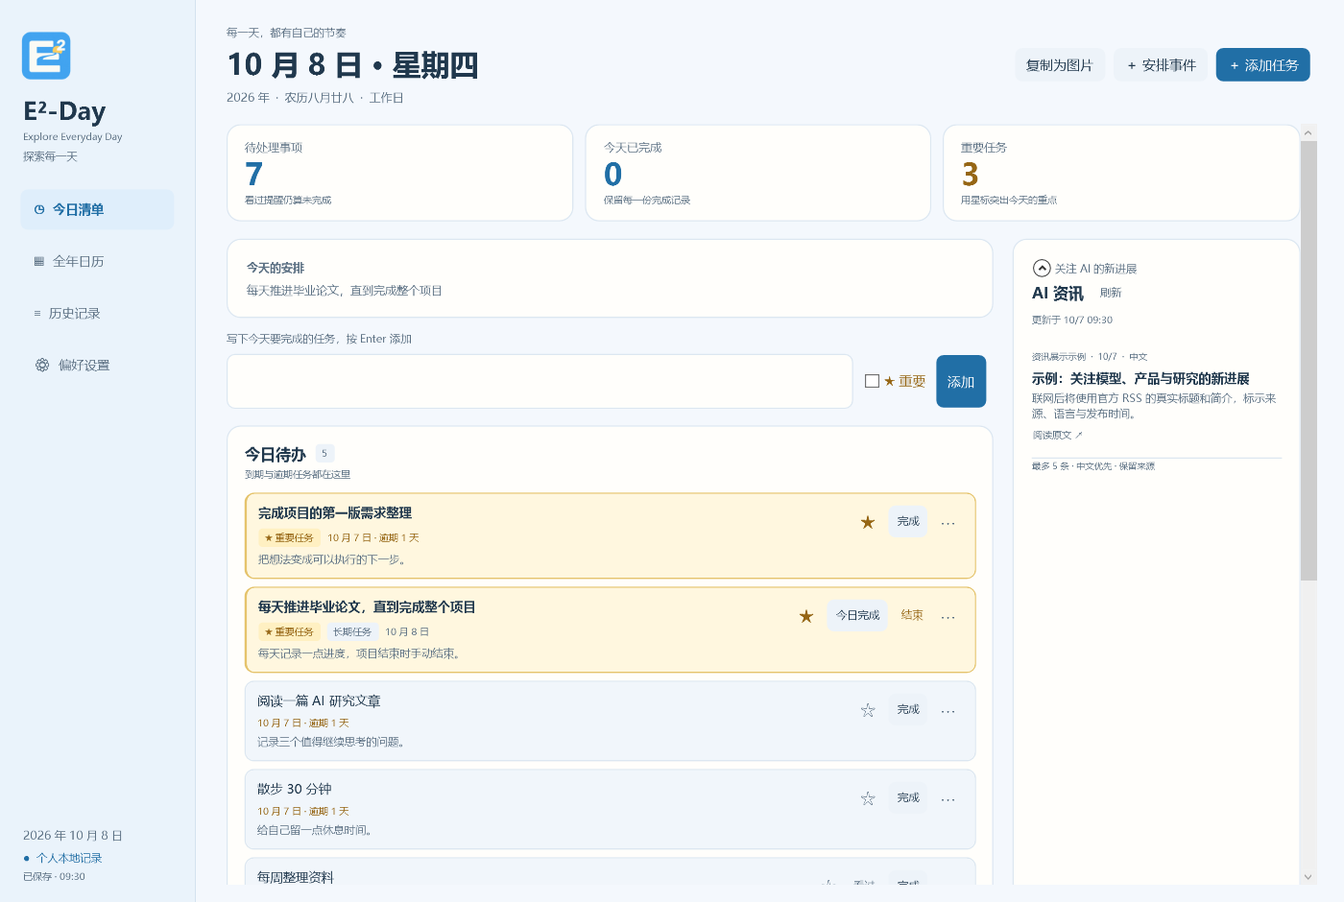
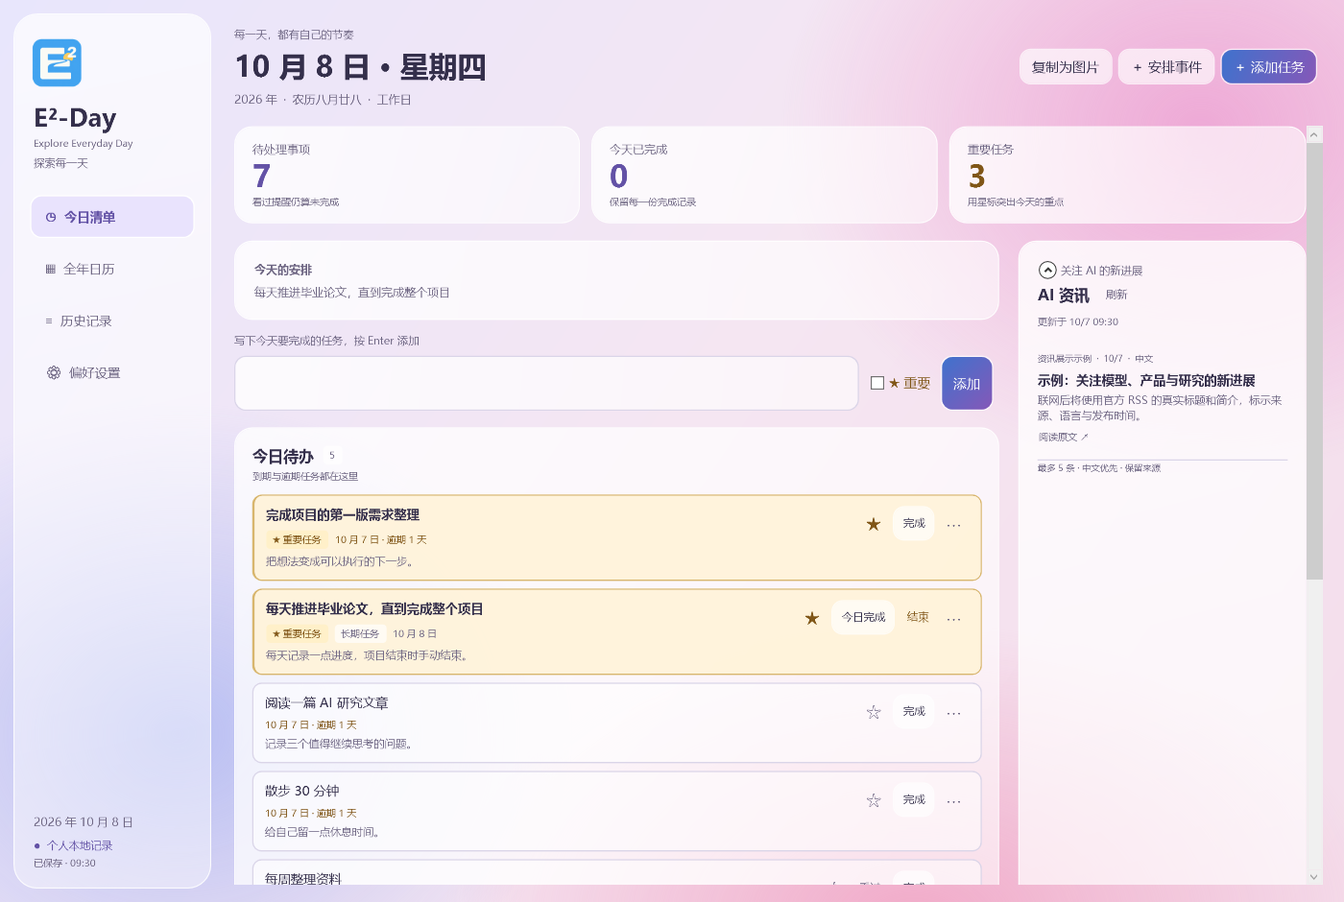
Publish E2-Day 2.1.1 with pastel glass desktop theme and refreshed example screenshots

diff --git a/src/DailyRecord.App/App.xaml b/src/DailyRecord.App/App.xaml
@@ -3,24 +3,45 @@
              xmlns:x="http://schemas.microsoft.com/winfx/2006/xaml"
              ShutdownMode="OnMainWindowClose">
   <Application.Resources>
-    <!-- Sky blue, ivory and sunrise gold follow the E²-Day logo. -->
-    <SolidColorBrush x:Key="InkBrush" Color="#20384D" />
-    <SolidColorBrush x:Key="MutedBrush" Color="#5C7184" />
-    <SolidColorBrush x:Key="AccentBrush" Color="#216FA6" />
-    <SolidColorBrush x:Key="LineBrush" Color="#DCE7F1" />
-    <SolidColorBrush x:Key="PageBrush" Color="#F4F8FD" />
-    <SolidColorBrush x:Key="SidebarBrush" Color="#EAF3FB" />
-    <SolidColorBrush x:Key="SidebarLineBrush" Color="#D3E2EF" />
-    <SolidColorBrush x:Key="SurfaceBrush" Color="#FFFEFB" />
-    <SolidColorBrush x:Key="SubtleSurfaceBrush" Color="#F1F6FB" />
-    <SolidColorBrush x:Key="NeutralFillBrush" Color="#EDF3F9" />
-    <SolidColorBrush x:Key="SelectedBrush" Color="#DFEEFB" />
-    <SolidColorBrush x:Key="OnAccentMutedBrush" Color="#EAF5FF" />
-    <SolidColorBrush x:Key="BlankDayBrush" Color="#F4F7FB" />
-    <SolidColorBrush x:Key="ImportantTextBrush" Color="#966614" />
-    <SolidColorBrush x:Key="ImportantFillBrush" Color="#FFF7DF" />
-    <SolidColorBrush x:Key="ImportantBadgeBrush" Color="#FFF0C2" />
-    <SolidColorBrush x:Key="ImportantLineBrush" Color="#E5C36B" />
+    <!-- Opaque pastel foundation, translucent glass surfaces and readable violet ink. -->
+    <SolidColorBrush x:Key="InkBrush" Color="#342F4B" />
+    <SolidColorBrush x:Key="MutedBrush" Color="#6E6683" />
+    <SolidColorBrush x:Key="AccentBrush" Color="#6352A6" />
+    <SolidColorBrush x:Key="LineBrush" Color="#DAD5E8" />
+    <LinearGradientBrush x:Key="PageBrush" StartPoint="0,0" EndPoint="1,1">
+      <GradientStop Color="#E8E6FC" Offset="0" />
+      <GradientStop Color="#F5E6F2" Offset="0.5" />
+      <GradientStop Color="#F4DDEB" Offset="1" />
+    </LinearGradientBrush>
+    <LinearGradientBrush x:Key="ActionBrush" StartPoint="0,0" EndPoint="1,1">
+      <GradientStop Color="#3F72CD" Offset="0" />
+      <GradientStop Color="#8558B8" Offset="1" />
+    </LinearGradientBrush>
+    <LinearGradientBrush x:Key="SidebarBrush" StartPoint="0,0" EndPoint="1,1">
+      <GradientStop Color="#BBFFFFFF" Offset="0" />
+      <GradientStop Color="#65FFFFFF" Offset="1" />
+    </LinearGradientBrush>
+    <SolidColorBrush x:Key="SidebarLineBrush" Color="#E6FFFFFF" />
+    <LinearGradientBrush x:Key="SurfaceBrush" StartPoint="0,0" EndPoint="1,1">
+      <GradientStop Color="#CFFFFFFF" Offset="0" />
+      <GradientStop Color="#91FFFFFF" Offset="1" />
+    </LinearGradientBrush>
+    <SolidColorBrush x:Key="SubtleSurfaceBrush" Color="#88FFFFFF" />
+    <SolidColorBrush x:Key="NeutralFillBrush" Color="#A6FFFFFF" />
+    <SolidColorBrush x:Key="SelectedBrush" Color="#DBE6DFFD" />
+    <SolidColorBrush x:Key="OnAccentMutedBrush" Color="#F2EDFF" />
+    <SolidColorBrush x:Key="BlankDayBrush" Color="#32FFFFFF" />
+    <SolidColorBrush x:Key="ImportantTextBrush" Color="#805617" />
+    <SolidColorBrush x:Key="ImportantFillBrush" Color="#E8FFF3D9" />
+    <SolidColorBrush x:Key="ImportantBadgeBrush" Color="#FFF0C9" />
+    <SolidColorBrush x:Key="ImportantLineBrush" Color="#D8B66D" />
+    <!-- Only the daily edition defines this style; the shared helper leaves Teacher unchanged. -->
+    <Style x:Key="GlassCard" TargetType="Border">
+      <Setter Property="BorderBrush" Value="#F0FFFFFF" />
+      <Setter Property="Effect">
+        <Setter.Value><DropShadowEffect Color="#6B528E" BlurRadius="16" ShadowDepth="3" Opacity="0.075" /></Setter.Value>
+      </Setter>
+    </Style>
     <Style TargetType="Window">
       <Setter Property="Icon" Value="pack://siteoforigin:,,,/e2-day.ico" />
       <Setter Property="FontFamily" Value="Microsoft YaHei UI, Segoe UI" />
@@ -41,7 +62,7 @@
       <Setter Property="Template">
         <Setter.Value>
           <ControlTemplate TargetType="TextBox">
-            <Border x:Name="Bd" CornerRadius="8" Background="{TemplateBinding Background}"
+            <Border x:Name="Bd" CornerRadius="11" Background="{TemplateBinding Background}"
                     BorderBrush="{TemplateBinding BorderBrush}" BorderThickness="{TemplateBinding BorderThickness}">
               <ScrollViewer x:Name="PART_ContentHost" Margin="{TemplateBinding Padding}" />
             </Border>
@@ -59,7 +80,7 @@
       <Setter Property="Padding" Value="12,8" />
       <Setter Property="Background" Value="{StaticResource NeutralFillBrush}" />
       <Setter Property="Foreground" Value="{StaticResource InkBrush}" />
-      <Setter Property="BorderBrush" Value="Transparent" />
+      <Setter Property="BorderBrush" Value="#BBFFFFFF" />
       <Setter Property="BorderThickness" Value="1" />
       <Setter Property="Cursor" Value="Hand" />
       <Setter Property="VerticalContentAlignment" Value="Center" />
@@ -67,14 +88,14 @@
       <Setter Property="Template">
         <Setter.Value>
           <ControlTemplate TargetType="Button">
-            <Border x:Name="Bd" CornerRadius="8" Background="{TemplateBinding Background}"
+            <Border x:Name="Bd" CornerRadius="11" Background="{TemplateBinding Background}"
                     BorderBrush="{TemplateBinding BorderBrush}" BorderThickness="{TemplateBinding BorderThickness}">
               <ContentPresenter Margin="{TemplateBinding Padding}" HorizontalAlignment="{TemplateBinding HorizontalContentAlignment}"
                                 VerticalAlignment="{TemplateBinding VerticalContentAlignment}" />
             </Border>
             <ControlTemplate.Triggers>
-              <Trigger Property="IsMouseOver" Value="True"><Setter TargetName="Bd" Property="Opacity" Value="0.8" /></Trigger>
-              <Trigger Property="IsPressed" Value="True"><Setter TargetName="Bd" Property="Opacity" Value="0.6" /></Trigger>
+              <Trigger Property="IsMouseOver" Value="True"><Setter TargetName="Bd" Property="Opacity" Value="0.86" /><Setter TargetName="Bd" Property="BorderBrush" Value="{StaticResource AccentBrush}" /></Trigger>
+              <Trigger Property="IsPressed" Value="True"><Setter TargetName="Bd" Property="Opacity" Value="0.7" /></Trigger>
               <Trigger Property="IsKeyboardFocused" Value="True"><Setter TargetName="Bd" Property="BorderBrush" Value="{StaticResource AccentBrush}" /></Trigger>
               <Trigger Property="IsEnabled" Value="False"><Setter Property="Opacity" Value="0.45" /></Trigger>
             </ControlTemplate.Triggers>
@@ -83,13 +104,14 @@
       </Setter>
     </Style>
     <Style x:Key="AccentButton" TargetType="Button" BasedOn="{StaticResource {x:Type Button}}">
-      <Setter Property="Background" Value="{StaticResource AccentBrush}" />
+      <Setter Property="Background" Value="{StaticResource ActionBrush}" />
       <Setter Property="Foreground" Value="White" />
     </Style>
     <Style x:Key="QuietButton" TargetType="Button" BasedOn="{StaticResource {x:Type Button}}">
       <Setter Property="Background" Value="Transparent" />
       <Setter Property="Padding" Value="8,6" />
       <Setter Property="Foreground" Value="{StaticResource MutedBrush}" />
+      <Setter Property="BorderBrush" Value="Transparent" />
     </Style>
     <Style TargetType="ComboBox">
       <Setter Property="Padding" Value="8,7" />
@@ -97,6 +119,69 @@
       <Setter Property="Background" Value="{StaticResource SurfaceBrush}" />
       <Setter Property="Foreground" Value="{StaticResource InkBrush}" />
       <Setter Property="BorderBrush" Value="{StaticResource LineBrush}" />
+      <Setter Property="BorderThickness" Value="1" />
+      <Setter Property="ScrollViewer.CanContentScroll" Value="True" />
+      <Setter Property="Template">
+        <Setter.Value>
+          <ControlTemplate TargetType="ComboBox">
+            <Grid>
+              <ToggleButton Focusable="False" ClickMode="Press"
+                            IsChecked="{Binding IsDropDownOpen, RelativeSource={RelativeSource TemplatedParent}, Mode=TwoWay}">
+                <ToggleButton.Template>
+                  <ControlTemplate TargetType="ToggleButton">
+                    <Border Background="Transparent" />
+                  </ControlTemplate>
+                </ToggleButton.Template>
+              </ToggleButton>
+              <Border x:Name="Bd" CornerRadius="11" IsHitTestVisible="False"
+                      Background="{TemplateBinding Background}" BorderBrush="{TemplateBinding BorderBrush}"
+                      BorderThickness="{TemplateBinding BorderThickness}">
+                <Grid>
+                  <ContentPresenter Margin="12,8,32,8" VerticalAlignment="Center"
+                                    Content="{TemplateBinding SelectionBoxItem}"
+                                    ContentTemplate="{TemplateBinding SelectionBoxItemTemplate}" />
+                  <Path Data="M 0 0 L 4 4 L 8 0" Stroke="{StaticResource MutedBrush}" StrokeThickness="1.4"
+                        HorizontalAlignment="Right" VerticalAlignment="Center" Margin="0,0,14,0" />
+                </Grid>
+              </Border>
+              <Popup x:Name="PART_Popup" Placement="Bottom" AllowsTransparency="True" Focusable="False"
+                     IsOpen="{TemplateBinding IsDropDownOpen}" PopupAnimation="None">
+                <Border Background="#FCF9FF" BorderBrush="{StaticResource LineBrush}" BorderThickness="1"
+                        CornerRadius="11" Padding="5" Margin="0,4,0,0" MinWidth="{TemplateBinding ActualWidth}"
+                        MaxHeight="{TemplateBinding MaxDropDownHeight}">
+                  <ScrollViewer CanContentScroll="True">
+                    <StackPanel IsItemsHost="True" KeyboardNavigation.DirectionalNavigation="Contained" />
+                  </ScrollViewer>
+                </Border>
+              </Popup>
+            </Grid>
+            <ControlTemplate.Triggers>
+              <Trigger Property="IsKeyboardFocusWithin" Value="True"><Setter TargetName="Bd" Property="BorderBrush" Value="{StaticResource AccentBrush}" /></Trigger>
+              <Trigger Property="IsMouseOver" Value="True"><Setter TargetName="Bd" Property="BorderBrush" Value="{StaticResource AccentBrush}" /></Trigger>
+              <Trigger Property="IsEnabled" Value="False"><Setter Property="Opacity" Value="0.45" /></Trigger>
+            </ControlTemplate.Triggers>
+          </ControlTemplate>
+        </Setter.Value>
+      </Setter>
+    </Style>
+    <Style TargetType="ComboBoxItem">
+      <Setter Property="Foreground" Value="{StaticResource InkBrush}" />
+      <Setter Property="Padding" Value="10,8" />
+      <Setter Property="HorizontalContentAlignment" Value="Stretch" />
+      <Setter Property="Template">
+        <Setter.Value>
+          <ControlTemplate TargetType="ComboBoxItem">
+            <Border x:Name="Bd" Background="Transparent" CornerRadius="7" Padding="{TemplateBinding Padding}">
+              <ContentPresenter />
+            </Border>
+            <ControlTemplate.Triggers>
+              <Trigger Property="IsHighlighted" Value="True"><Setter TargetName="Bd" Property="Background" Value="{StaticResource SelectedBrush}" /></Trigger>
+              <Trigger Property="IsSelected" Value="True"><Setter TargetName="Bd" Property="Background" Value="{StaticResource SelectedBrush}" /></Trigger>
+              <Trigger Property="IsEnabled" Value="False"><Setter Property="Opacity" Value="0.45" /></Trigger>
+            </ControlTemplate.Triggers>
+          </ControlTemplate>
+        </Setter.Value>
+      </Setter>
     </Style>
     <Style TargetType="DatePicker">
       <Setter Property="Background" Value="{StaticResource SurfaceBrush}" />

diff --git a/src/DailyRecord.App/MainWindow.xaml b/src/DailyRecord.App/MainWindow.xaml
@@ -3,10 +3,24 @@
         xmlns:x="http://schemas.microsoft.com/winfx/2006/xaml"
         Title="E²-Day" Width="1360" Height="940" MinWidth="1000" MinHeight="650" Style="{StaticResource {x:Type Window}}"
         WindowStartupLocation="CenterScreen">
-  <Grid Background="{StaticResource PageBrush}">
-    <Grid.ColumnDefinitions><ColumnDefinition Width="204" /><ColumnDefinition Width="*" /></Grid.ColumnDefinitions>
-    <Border Background="{StaticResource SidebarBrush}" BorderBrush="{StaticResource SidebarLineBrush}" BorderThickness="0,0,1,0">
-      <Grid Margin="20,30,20,20">
+  <Grid Background="{StaticResource PageBrush}" ClipToBounds="True">
+    <Grid.ColumnDefinitions><ColumnDefinition Width="220" /><ColumnDefinition Width="*" /></Grid.ColumnDefinitions>
+    <!-- Static, soft-edged shapes sit behind the glass. No blur is applied to content or calendar cells. -->
+    <Viewbox Grid.ColumnSpan="2" Stretch="Fill" IsHitTestVisible="False" Focusable="False">
+      <Canvas Width="1360" Height="940" ClipToBounds="True">
+        <Ellipse Width="850" Height="720" Canvas.Left="790" Canvas.Top="-225">
+          <Ellipse.Fill><RadialGradientBrush><GradientStop Color="#DCEDA0D2" Offset="0" /><GradientStop Color="#00EDA0D2" Offset="1" /></RadialGradientBrush></Ellipse.Fill>
+        </Ellipse>
+        <Ellipse Width="800" Height="690" Canvas.Left="-220" Canvas.Top="420">
+          <Ellipse.Fill><RadialGradientBrush><GradientStop Color="#C6A8B4F2" Offset="0" /><GradientStop Color="#00A8B4F2" Offset="1" /></RadialGradientBrush></Ellipse.Fill>
+        </Ellipse>
+        <Ellipse Width="950" Height="620" Canvas.Left="450" Canvas.Top="650">
+          <Ellipse.Fill><RadialGradientBrush><GradientStop Color="#C8F09BBE" Offset="0" /><GradientStop Color="#00F09BBE" Offset="1" /></RadialGradientBrush></Ellipse.Fill>
+        </Ellipse>
+      </Canvas>
+    </Viewbox>
+    <Border Background="{StaticResource SidebarBrush}" BorderBrush="{StaticResource SidebarLineBrush}" BorderThickness="1" CornerRadius="24" Margin="14,14,0,14">
+      <Grid Margin="16,22,16,18">
         <Grid.RowDefinitions><RowDefinition Height="Auto" /><RowDefinition Height="*" /><RowDefinition Height="Auto" /></Grid.RowDefinitions>
         <StackPanel>
           <Image Source="/Assets/e2-day-logo.png" Width="56" Height="56" HorizontalAlignment="Left" Margin="0,0,0,12"
@@ -23,7 +37,7 @@
         </StackPanel>
       </Grid>
     </Border>
-    <Grid Grid.Column="1" Margin="32,26,28,18">
+    <Grid Grid.Column="1" Margin="24,28,22,18">
       <Grid.RowDefinitions><RowDefinition Height="Auto" /><RowDefinition Height="*" /></Grid.RowDefinitions>
       <Grid Margin="0,0,0,20">
         <Grid.ColumnDefinitions><ColumnDefinition Width="*" /><ColumnDefinition Width="Auto" /></Grid.ColumnDefinitions>

diff --git a/src/DailyRecord.App/Ui.cs b/src/DailyRecord.App/Ui.cs
@@ -37,11 +37,18 @@ internal static class Ui
         button.Click += (_, _) => action();
         return button;
     }
-    public static Border Card(UIElement child, Thickness? padding = null) => new()
+    public static Border Card(UIElement child, Thickness? padding = null)
     {
-        Child = child, Background = Surface, BorderBrush = Line, BorderThickness = new Thickness(1),
-        CornerRadius = new CornerRadius(14), Padding = padding ?? new Thickness(20), Margin = new Thickness(0, 0, 0, 14)
-    };
+        var glass = Application.Current.TryFindResource("GlassCard") as Style;
+        var card = new Border
+        {
+            Child = child, Background = Surface, BorderThickness = new Thickness(1), Style = glass,
+            CornerRadius = new CornerRadius(glass is null ? 14 : 18), Padding = padding ?? new Thickness(20),
+            Margin = new Thickness(0, 0, 0, 14)
+        };
+        if (glass is null) card.BorderBrush = Line;
+        return card;
+    }
     public static StackPanel Stack(params UIElement[] children)
     {
         var panel = new StackPanel();

diff --git a/src/DailyRecord.App/CalendarView.cs b/src/DailyRecord.App/CalendarView.cs
@@ -115,6 +115,7 @@ public partial class MainWindow
         var bottom = Ui.Text("", 7);
         bottom.TextWrapping = TextWrapping.NoWrap; bottom.TextTrimming = TextTrimming.CharacterEllipsis; Grid.SetRow(bottom, 1); content.Children.Add(bottom);
         var button = Ui.Button("", () => ShowDate(date)); button.Content = content;
+        button.BorderBrush = Brushes.Transparent;
         button.Padding = new Thickness(3, 1, 3, 1); button.Margin = new Thickness(1); button.Height = 25;
         _calendarDays[date] = new(date, button, number, mark, bottom);
         button.Tag = "date:" + date.ToString("yyyy-MM-dd"); return button;

diff --git a/src/DailyRecord.App/MainWindow.xaml.cs b/src/DailyRecord.App/MainWindow.xaml.cs
@@ -101,6 +101,7 @@ public partial class MainWindow : Window
         foreach (var pair in _nav)
         {
             pair.Value.Background = pair.Key == _page ? Ui.Selected : Brushes.Transparent;
+            pair.Value.BorderBrush = pair.Key == _page ? Brushes.White : Brushes.Transparent;
             pair.Value.Foreground = pair.Key == _page ? Ui.Accent : Ui.Muted;
             pair.Value.FontWeight = pair.Key == _page ? FontWeights.SemiBold : FontWeights.Normal;
         }

diff --git a/README.md b/README.md
@@ -29,18 +29,20 @@ Windows desktop task planner, yearly/monthly calendar, recurring events, Chinese
 
 **新增鸿蒙原生版 0.1.1**：独立 ArkTS / ArkUI 应用，手机本机账号、离线任务与备注图片，手动与电脑交换 JSON。已在 Pura 70 / HarmonyOS 6.1 验证。公开构建为未签名 HAP，需用自己的开发者账号和设备签名；个人设备签名包不公开。[构建、签名及日常使用](docs/HARMONY-NATIVE.md)。既有网页手机入口继续使用。
 
+**Windows 日常版 2.1.1 · 玻璃拟态界面**：粉紫柔光背景、半透明圆角卡片和蓝紫操作按钮，覆盖今日清单、全年／月历、历史、设置与编辑窗口。金色重要标记、完成淡化和原有记录继续保留。
+
 ![今日清单](docs/images/today.png)
 
 > 所有截图均由隔离的示例数据生成。首次运行时，个人任务清单为空；截图里的示例任务和资讯不会写入你的记录。
 
 ## 下载与开始使用
 
-公开版本：**2.1.0**，新增鸿蒙原生工程与原生版 0.1.1 未签名构建，保留本机账号和手动文件交换。下方提供对应 Windows 程序包。程序采用免安装、自包含的文件夹发布方式，下载包内已包含所需的 .NET 运行依赖。
+Windows 日常版：**2.1.1**，更新为玻璃拟态界面，保留任务、日历、图文备注、本机账号和手动文件交换。鸿蒙原生版仍为 0.1.1。下方提供对应 Windows 程序包。程序采用免安装、自包含的文件夹发布方式，下载包内已包含所需的 .NET 运行依赖。
 
 | 你的电脑 | 下载文件 |
 | --- | --- |
-| Intel / AMD 处理器的 64 位 Windows 电脑 | [E2-Day-v2.1.0-win-x64.zip](https://github.com/yilaxin/E2-Day/releases/download/v2.1.0/E2-Day-v2.1.0-win-x64.zip) |
-| Snapdragon 等 ARM 处理器的 Windows ARM64 电脑 | [E2-Day-v2.1.0-win-arm64.zip](https://github.com/yilaxin/E2-Day/releases/download/v2.1.0/E2-Day-v2.1.0-win-arm64.zip) |
+| Intel / AMD 处理器的 64 位 Windows 电脑 | [E2-Day-v2.1.1-win-x64.zip](https://github.com/yilaxin/E2-Day/releases/download/v2.1.1/E2-Day-v2.1.1-win-x64.zip) |
+| Snapdragon 等 ARM 处理器的 Windows ARM64 电脑 | [E2-Day-v2.1.1-win-arm64.zip](https://github.com/yilaxin/E2-Day/releases/download/v2.1.1/E2-Day-v2.1.1-win-arm64.zip) |
 
 1. 在 Windows“设置 → 系统 → 关于 → 系统类型”中确认电脑架构，选择对应下载包。
 2. **完整解压**到一个固定文件夹，保留程序旁边的 DLL、图标和 `Data` 文件夹。

diff --git a/docs/RELEASE-v2.1.1.md b/docs/RELEASE-v2.1.1.md
@@ -1,0 +1,27 @@
+# E²-Day 2.1.1 · Windows 玻璃拟态界面
+
+按照粉紫玻璃拟态参考重新设计 Windows 日常版：柔和渐变背景、半透明白色圆角卡片、细白边与轻阴影，配合蓝紫渐变按钮和清晰的深色文字。
+
+- 今日清单、全年总览、放大月历、历史与设置使用一致的玻璃风格；保留全年默认总览及点击月份放大。
+- 任务与事件编辑、账号和分享图片同步配色；重要任务继续以金色星标及边框突出，完成任务淡化保留。
+- 全年与月历沿用缓存控件；本地账号、数据目录、图文备注、长期任务、提醒、备份与文件交换继续兼容。
+- 家教版沿用原有主题与 1.0.3 发布包。鸿蒙原生版维持已发布的 0.1.1，本次不包含尚未发布的 0.2.0 功能。
+
+## 下载与更新
+
+| Windows 架构 | 自包含免安装包 |
+| --- | --- |
+| Intel / AMD x64 | [E2-Day-v2.1.1-win-x64.zip](https://github.com/yilaxin/E2-Day/releases/download/v2.1.1/E2-Day-v2.1.1-win-x64.zip) |
+| Windows ARM64 | [E2-Day-v2.1.1-win-arm64.zip](https://github.com/yilaxin/E2-Day/releases/download/v2.1.1/E2-Day-v2.1.1-win-arm64.zip) |
+
+完整解压到新文件夹，运行 DailyRecord.exe；请将 DLL、Data、Mobile 和图标文件一起保留。本机已有记录继续从原数据目录读取。推荐在“设置与备份”中保留一份手动备份。程序包未做数字签名；SHA256SUMS.txt 提供两种 ZIP 的校验值。历史正式版本及标签继续保留。
+
+本版不重新发布鸿蒙包；手机用户继续使用 [2.1.0 的原生 0.1.1 构建](https://github.com/yilaxin/E2-Day/releases/tag/v2.1.0)，与 Windows 的文件交换格式保持兼容。
+
+## 验证
+
+60 项核心规则、手机规则／文件交换／离线启动回归，以及 ARM64 和 x64 自包含程序的 WPF 验证通过。验证覆盖重要标记、完成与撤销、日历缓存和月历预览、图片上传及历史、长期任务和分享图片。检查程序 2.1.1.0、两种 PE 架构、包内文件与 SHA-256，发布后复核公开下载。
+
+所有界面截图均使用隔离示例数据。验证主机为 Windows ARM64，x64 程序通过 Windows 的兼容环境运行。
+
+保留版权及现有许可：允许下载并运行官方正式程序包，源码不自动授予通用开源许可。详见 LICENSE。

diff --git a/验证记录.md b/验证记录.md
@@ -1,5 +1,14 @@
 # 验证记录
 
+## 2026-10-17：日常版 2.1.1 · 玻璃拟态界面
+
+- 60 项核心规则、手机端重复规则、备份兼容、文件交换与离线启动回归通过；ARM64 与 x64 自包含正式程序分别运行完整 WPF 验证，程序版本均为 2.1.1.0。
+- 实际渲染今日清单、全年、放大月历、1000 像素窄窗口、历史、设置、编辑、图文备注与分享图；使用隔离示例数据。深色正文、重要任务金色标记和已完成淡化保持可辨。
+- 独立控件探针通过真实自动化开关展开新版 ComboBox 菜单、选中“每天（长期任务）”并收起，选择结果正确。探针位于忽略的构建目录，不包含个人数据、不随包发布。
+- 发布 ARM64 的首次全年构建与布局约 385 ms，后续跨页返回约 6–10 ms；x64 在 ARM64 主机兼容环境运行，后续约 22–33 ms。保留全年／月历控件与原缓存失效规则，没有在日期控件上应用模糊效果。
+- 共享 Ui.Card 在未定义 GlassCard 资源时保留原样；家教版核心 17 项及 WPF 17 项验证通过，版本仍为 1.0.3.0。
+- 两种程序包检查 exe／SQLite 的 PE 架构、版本、必需文件与 SHA-256；发布使用新标签 v2.1.1，保留历史发布。桌面入口指向新的独立版本目录。
+
 ## 2026-10-15：家教版 1.0.3 · 原版 logo / E²-Day Teacher
 
 - 家教版 PNG 与 ICO 直接复制日常版原始 logo 文件，分别核对 SHA-256 完全一致，没有角标或重新绘制。

diff --git a/使用说明.md b/使用说明.md
@@ -24,6 +24,12 @@ Windows 桌面应用与手机主屏幕应用：全年安排、每日任务、提
 
 官方公开下载：[GitHub Releases](https://github.com/yilaxin/E2-Day/releases/latest)。发布包为免安装压缩包，未做数字签名；2.0 包含手机主屏幕应用，没有 macOS、Linux 或 32 位 Windows 程序包。
 
+## Windows 玻璃拟态界面（2.1.1）
+
+打开桌面 E²-Day 即可使用新界面，无需额外设置。背景为粉紫柔和渐变，侧边导航与内容卡片使用半透明白色，添加、保存等主要操作使用蓝紫渐变。今日清单、全年日历、点击月份后的放大月历、历史与设置保持原有入口。
+
+重要任务仍以金色星标、暖金底色和边框区分；完成后淡化保留，仍可撤销。日期、节日、提前提醒、长期任务、备注图片与复制今日清单图片的操作不变。更新程序继续使用原有本机数据目录；首次预览截图均来自隔离示例数据。家教版与手机界面各自保持原有主题。
+
 ## 本机账号
 
 - 账号名 2 至 40 个字符，密码 8 至 128 个字符。各设备在本机创建，不需要邮箱或手机号。

diff --git a/CHANGELOG.md b/CHANGELOG.md
@@ -1,5 +1,12 @@
 # 版本记录
 
+## 2.1.1 · Windows 玻璃拟态界面（2026-10-17）
+
+- 日常版使用粉紫柔光背景、半透明白色卡片、白色细边和轻阴影，侧边导航改为独立圆角面板，主要操作使用蓝紫渐变。
+- 今日清单、全年总览、放大月历、历史、设置、任务编辑与分享图片使用一致的配色；深色文字保证阅读，重要任务仍用金色星标与边框，完成事项淡化保留。
+- 编辑窗口的下拉选择器适配新主题，保留原有事件、重复规则与编辑范围；全年与月历继续复用缓存控件。
+- 此版本更新 Windows 日常版界面；家教版保留原有主题，鸿蒙原生版继续使用已发布的 0.1.1，未发布的 0.2.0 功能不包含在内。
+
 ## 家教版 1.0.3（tutor-v1.0.3，2026-10-15）
 
 - 图标恢复为原版 E²-Day logo，移除“教”字角标；桌面快捷方式及程序显示元数据名称使用 E²-Day Teacher。
